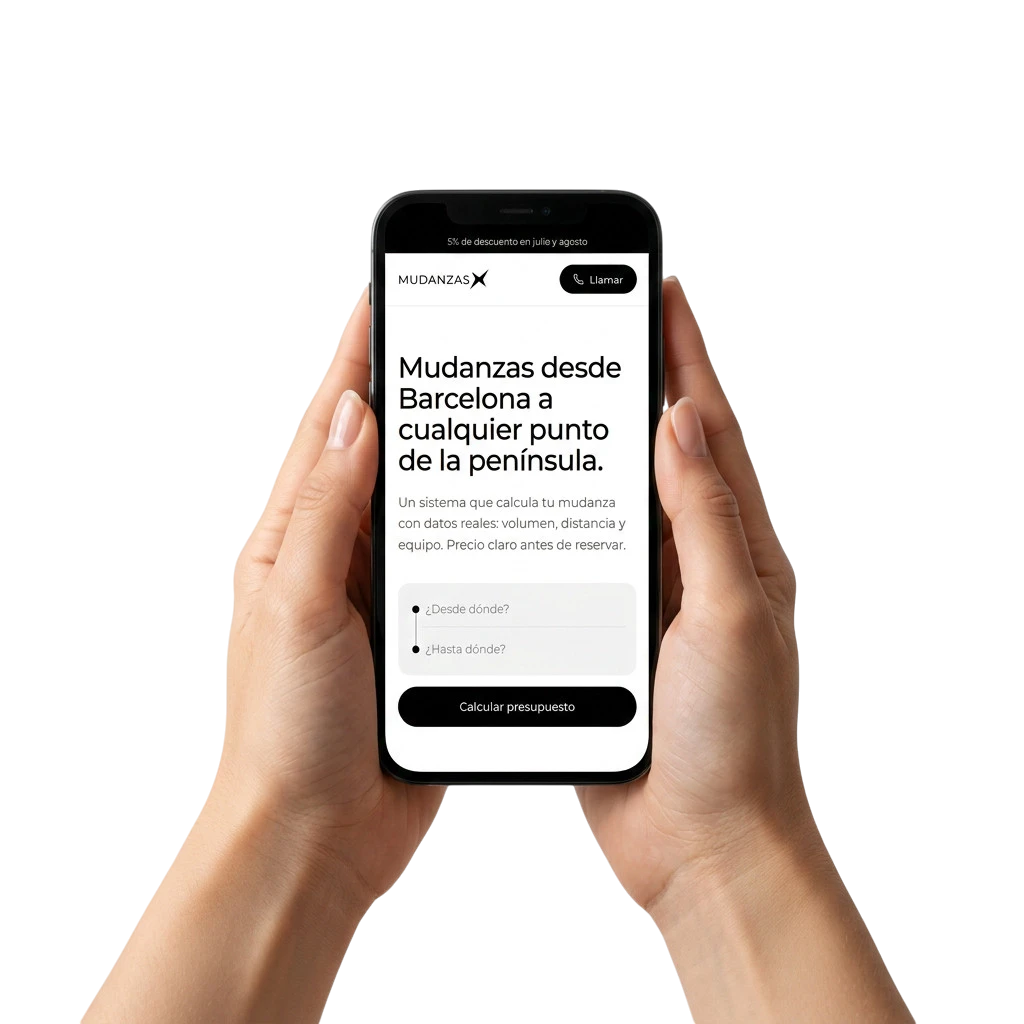
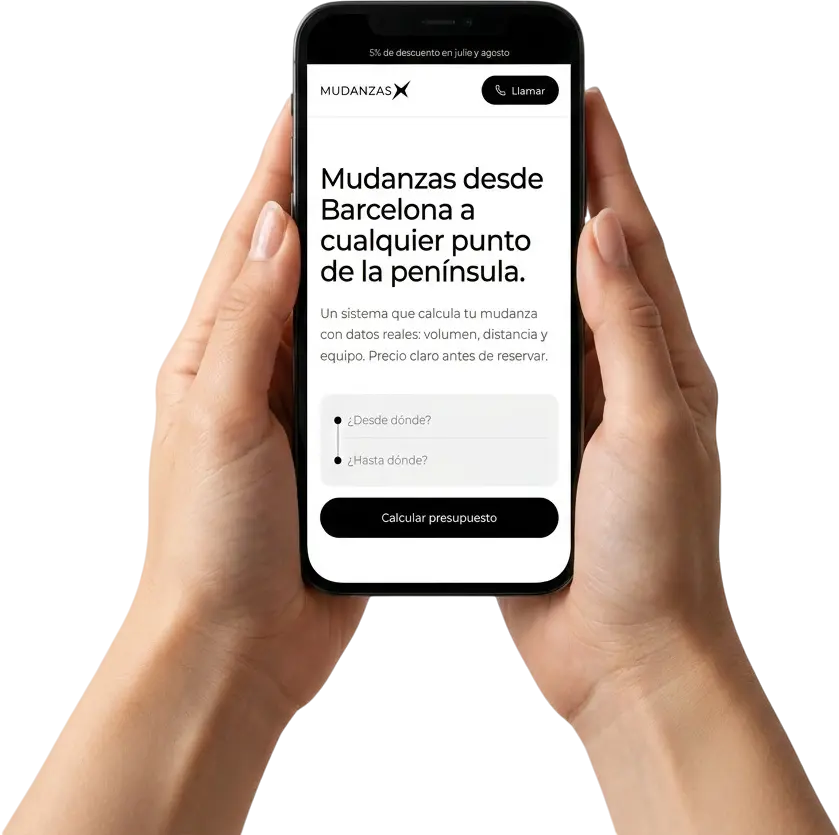
Landing: el marco gris de las imágenes de sección se adapta a cada proporción
Las WebP están recortadas (el sujeto llena el archivo, cada una con su
proporción). SectionImage deja de forzar cuadro cuadrado:
- Mismo ancho máximo (420px) y centrado en las tres; en móvil, ancho
  disponible con margen lateral.
- Padding interior uniforme y reducido (p-6 / 24px) idéntico en las tres.
- La imagen rellena el ancho (w-full, object-contain, sin deformar) y el alto
  del cuadro sigue la proporción real; width/height reales evitan layout shift.

Resultado: mismo ancho y mismo margen en las tres, alto según su forma, el
sujeto llena el marco sin huecos grandes.

Verificado: ancho 342 (móvil) / 420 (desktop) y padding 24px iguales en las
tres; altos adaptados (portrait más alto, landscape más bajo); sin overflow.

diff --git a/src/components/SectionImage.tsx b/src/components/SectionImage.tsx
@@ -1,36 +1,37 @@
 import Image from "next/image";
 
 // Imagen destacada de sección: patrón único y reutilizable para las tres
-// secciones (Cómo funciona, FAQs, Servicios), de modo que los tres cuadros y las
-// tres imágenes se vean EXACTAMENTE iguales en cada breakpoint.
+// secciones (Cómo funciona, FAQs, Servicios).
 //
-// - Contenedor cuadrado (aspect-square) con fondo gris de marca (#F3F3F3),
-//   esquinas redondeadas, ancho máximo contenido (420px) y centrado.
-// - Padding interior uniforme (p-6) por los cuatro lados.
-// - La imagen (1024x1024 cuadrada) rellena el área interior con object-contain:
-//   se ve completa, sin recortar ni deformar, y al mismo tamaño visual en las tres.
+// Las WebP están recortadas (el sujeto llena el archivo), así que cada una tiene
+// su propia proporción. El marco gris NO es cuadrado: se adapta a la imagen.
+// - Mismo ancho máximo (420px), centrado; en móvil ocupa el ancho disponible.
+// - Fondo gris de marca (#F3F3F3), esquinas redondeadas.
+// - Padding interior uniforme y reducido (p-6) idéntico en las tres.
+// - La imagen rellena el ancho interior; el alto del cuadro sigue la proporción
+//   real de la imagen (width/height evitan el layout shift; sin deformar).
 export default function SectionImage({
   src,
   alt,
+  width,
+  height,
 }: {
   src: string;
   alt: string;
+  width: number;
+  height: number;
 }) {
   return (
-    <div className="mx-auto mt-8 w-full max-w-[420px] md:mt-10">
-      <div className="aspect-square w-full rounded-2xl bg-gris p-6">
-        {/* Área interior (dentro del padding). La imagen la rellena por completo. */}
-        <div className="relative h-full w-full">
-          <Image
-            src={src}
-            alt={alt}
-            fill
-            sizes="(min-width: 468px) 372px, calc(100vw - 96px)"
-            loading="lazy"
-            className="object-contain"
-          />
-        </div>
-      </div>
+    <div className="mx-auto mt-8 w-full max-w-[420px] rounded-2xl bg-gris p-6 md:mt-10">
+      <Image
+        src={src}
+        alt={alt}
+        width={width}
+        height={height}
+        sizes="(min-width: 468px) 372px, calc(100vw - 96px)"
+        loading="lazy"
+        className="h-auto w-full object-contain"
+      />
     </div>
   );
 }

diff --git a/src/components/Faq.tsx b/src/components/Faq.tsx
@@ -57,6 +57,8 @@ export default function Faq() {
         <SectionImage
           src="/faq-operario.webp"
           alt="Operario de Mudanzas X resolviendo dudas frecuentes sobre la mudanza"
+          width={706}
+          height={988}
         />
 
         {/* Acordeón de preguntas (contenido intacto). */}

diff --git a/src/components/HowItWorks.tsx b/src/components/HowItWorks.tsx
@@ -39,6 +39,8 @@ export default function HowItWorks() {
         <SectionImage
           src="/como-funciona-movil.webp"
           alt="La web de Mudanzas X en el móvil para pedir presupuesto de mudanza en Barcelona"
+          width={839}
+          height={835}
         />
 
         {/* Pasos del proceso: secuencia encadenada con conector vertical. */}

diff --git a/src/components/Servicios.tsx b/src/components/Servicios.tsx
@@ -65,6 +65,8 @@ export default function Servicios() {
         <SectionImage
           src="/servicios-vivienda.webp"
           alt="Vivienda moderna representando los servicios de mudanzas de Mudanzas X en Barcelona"
+          width={900}
+          height={719}
         />
 
         <div className="mt-12 grid grid-cols-1 gap-x-12 gap-y-9 sm:grid-cols-2 md:mt-16 md:gap-y-11">